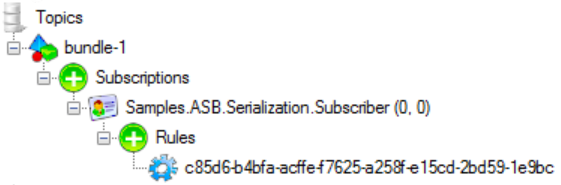
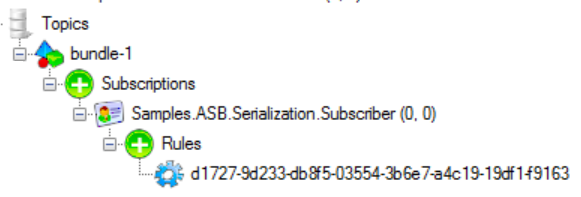
incorporated feedback

diff --git a/samples/azure/custom-sanitization/ASB_7/Subscriber/Program.cs b/samples/azure/custom-sanitization/ASB_7/Subscriber/Program.cs
@@ -1,12 +1,7 @@
 using System;
-using System.Linq;
-using System.Security.Cryptography;
-using System.Text;
-using System.Text.RegularExpressions;
 using System.Threading.Tasks;
 using NServiceBus;
 using NServiceBus.AzureServiceBus;
-using NServiceBus.AzureServiceBus.Addressing;
 using NServiceBus.Features;
 
 class Program
@@ -51,74 +46,3 @@ class Program
         }
     }
 }
-
-#region Sha1SanitiazationStrategy
-
-class Sha1Sanitization : ISanitizationStrategy
-{
-    public string Sanitize(string entityPathOrName, EntityType entityType)
-    {
-        // remove invalid characters
-        if (entityType == EntityType.Queue || entityType == EntityType.Topic)
-        {
-            var regexQueueAndTopicValidCharacters = new Regex(@"[^a-zA-Z0-9\-\._\/]");
-            var regexLeadingAndTrailingForwardSlashes = new Regex(@"^\/|\/$");
-
-            entityPathOrName = regexQueueAndTopicValidCharacters.Replace(entityPathOrName, string.Empty);
-            entityPathOrName = regexLeadingAndTrailingForwardSlashes.Replace(entityPathOrName, string.Empty);
-        }
-
-        if (entityType == EntityType.Subscription || entityType == EntityType.Rule || entityType == EntityType.EventHub)
-        {
-            var rgx = new Regex(@"[^a-zA-Z0-9\-\._]");
-            entityPathOrName = rgx.Replace(entityPathOrName, "");
-        }
-
-        int entityPathOrNameMaxLength = 0;
-
-        switch (entityType)
-        {
-            case EntityType.Queue:
-            case EntityType.Topic:
-                entityPathOrNameMaxLength = 260;
-                break;
-            case EntityType.Subscription:
-            case EntityType.Rule:
-                entityPathOrNameMaxLength = 50;
-                break;
-        }
-
-        // hash if too long
-        if (entityPathOrName.Length > entityPathOrNameMaxLength)
-        {
-            entityPathOrName = SHA1DeterministicNameBuilder.Build(entityPathOrName);
-        }
-
-        return entityPathOrName;
-    }
-}
-
-#endregion
-
-#region SHA1DeterministicNameBuilder
-
-static class SHA1DeterministicNameBuilder
-{
-    public static string Build(string input)
-    {
-        using (var provider = new SHA1CryptoServiceProvider())
-        {
-            var inputBytes = Encoding.Default.GetBytes(input);
-            var hashBytes = provider.ComputeHash(inputBytes);
-
-            var hashBuilder = new StringBuilder(string.Join("", hashBytes.Select(x => x.ToString("x2"))));
-            foreach (var delimeterIndex in new[] { 5, 11, 17, 23, 29, 35, 41 })
-            {
-                hashBuilder.Insert(delimeterIndex, "-");
-            }
-            return hashBuilder.ToString();
-        }
-    }
-}
-
-#endregion

diff --git a/samples/azure/custom-sanitization/ASB_7/Subscriber/Sha1Sanitization.cs b/samples/azure/custom-sanitization/ASB_7/Subscriber/Sha1Sanitization.cs
@@ -1,0 +1,51 @@
+using System.Text.RegularExpressions;
+using NServiceBus.AzureServiceBus;
+using NServiceBus.AzureServiceBus.Addressing;
+
+#region Sha1SanitiazationStrategy
+
+class Sha1Sanitization : ISanitizationStrategy
+{
+    public string Sanitize(string entityPathOrName, EntityType entityType)
+    {
+        // remove invalid characters
+        if (entityType == EntityType.Queue || entityType == EntityType.Topic)
+        {
+            var regexQueueAndTopicValidCharacters = new Regex(@"[^a-zA-Z0-9\-\._\/]");
+            var regexLeadingAndTrailingForwardSlashes = new Regex(@"^\/|\/$");
+
+            entityPathOrName = regexQueueAndTopicValidCharacters.Replace(entityPathOrName, string.Empty);
+            entityPathOrName = regexLeadingAndTrailingForwardSlashes.Replace(entityPathOrName, string.Empty);
+        }
+
+        if (entityType == EntityType.Subscription || entityType == EntityType.Rule || entityType == EntityType.EventHub)
+        {
+            var rgx = new Regex(@"[^a-zA-Z0-9\-\._]");
+            entityPathOrName = rgx.Replace(entityPathOrName, "");
+        }
+
+        int entityPathOrNameMaxLength = 0;
+
+        switch (entityType)
+        {
+            case EntityType.Queue:
+            case EntityType.Topic:
+                entityPathOrNameMaxLength = 260;
+                break;
+            case EntityType.Subscription:
+            case EntityType.Rule:
+                entityPathOrNameMaxLength = 50;
+                break;
+        }
+
+        // hash if too long
+        if (entityPathOrName.Length > entityPathOrNameMaxLength)
+        {
+            entityPathOrName = SHA1DeterministicNameBuilder.Build(entityPathOrName);
+        }
+
+        return entityPathOrName;
+    }
+}
+
+#endregion

diff --git a/samples/azure/custom-sanitization/ASB_7/Subscriber/SHA1DeterministicNameBuilder.cs b/samples/azure/custom-sanitization/ASB_7/Subscriber/SHA1DeterministicNameBuilder.cs
@@ -1,0 +1,35 @@
+using System.Linq;
+using System.Security.Cryptography;
+using System.Text;
+
+#region SHA1DeterministicNameBuilder
+
+static class SHA1DeterministicNameBuilder
+{
+    public static string Build(string input)
+    {
+        using (var provider = new SHA1CryptoServiceProvider())
+        {
+            var inputBytes = Encoding.Default.GetBytes(input);
+            var hashBytes = provider.ComputeHash(inputBytes);
+
+            var hashBuilder = new StringBuilder(string.Join("", hashBytes.Select(x => x.ToString("x2"))));
+            foreach (var delimeterIndex in new[]
+            {
+                5,
+                11,
+                17,
+                23,
+                29,
+                35,
+                41
+            })
+            {
+                hashBuilder.Insert(delimeterIndex, "-");
+            }
+            return hashBuilder.ToString();
+        }
+    }
+}
+
+#endregion

diff --git a/samples/azure/custom-sanitization/ASB_7/Publisher/Program.cs b/samples/azure/custom-sanitization/ASB_7/Publisher/Program.cs
@@ -1,9 +1,9 @@
 using System;
 using System.Threading.Tasks;
-using Shared.Messages.In.A.Deep.Nested.Namespace.Nested.Events;
 using NServiceBus;
 using NServiceBus.AzureServiceBus;
 using NServiceBus.Features;
+using Shared.Messages.In.A.Deep.Nested.Namespace.Nested.Events;
 
 class Program
 {
@@ -43,8 +43,8 @@ class Program
                 {
                     break;
                 }
-                await endpoint.Publish(new SuperDuperEvent { EventId = eventId });
-                Console.WriteLine("SuperDuperEvent sent. EventId: " + eventId);
+                await endpoint.Publish(new SomeEvent { EventId = eventId });
+                Console.WriteLine("SomeEvent sent. EventId: " + eventId);
             }
         }
         finally

diff --git a/samples/azure/custom-sanitization/ASB_7/Subscriber/SomeEventHandler.cs b/samples/azure/custom-sanitization/ASB_7/Subscriber/SomeEventHandler.cs
@@ -1,0 +1,15 @@
+using System.Threading.Tasks;
+using NServiceBus;
+using NServiceBus.Logging;
+using Shared.Messages.In.A.Deep.Nested.Namespace.Nested.Events;
+
+public class SomeEventHandler : IHandleMessages<SomeEvent>
+{
+    static ILog logger = LogManager.GetLogger<SomeEventHandler>();
+
+    public Task Handle(SomeEvent message, IMessageHandlerContext context)
+    {
+        logger.InfoFormat("Received SomeEvent. EventId: {0}", message.EventId);
+        return Task.FromResult(0);
+    }
+}

diff --git a/samples/azure/custom-sanitization/ASB_7/Shared/SomeEvent.cs b/samples/azure/custom-sanitization/ASB_7/Shared/SomeEvent.cs
@@ -4,9 +4,9 @@ namespace Shared.Messages.In.A.Deep.Nested.Namespace.Nested.Events
 {
     using NServiceBus;
 
-    #region SuperDuperEvent
+    #region SomeEvent
 
-    public class SuperDuperEvent : IEvent
+    public class SomeEvent : IEvent
     {
         public Guid EventId { get; set; }
     }

diff --git a/nservicebus/azure-service-bus/sanitization.md b/nservicebus/azure-service-bus/sanitization.md
@@ -23,15 +23,15 @@ When entity name does not follow the rules, an exception is raised by the broker
 
 | Entity Type  | Valid Characters | Path / Name Maximum Length |
 |--------------|------------------|----------------------------|
-| Queue        | Letters, numbers, periods (.), hyphens (-), underscores (_), and forward slashes (/). | 260 |
-| Topic        | Letters, numbers, periods (.), hyphens (-), underscores (_), and forward slashes (/). | 260 |
-| Subscription | Letters, numbers, periods (.), hyphens (-), and underscores (_). | 50  |
-| Rule         | Letters, numbers, periods (.), hyphens (-), and underscores (_). | 50  |
+| Queue        | Letters, numbers, periods (`.`), hyphens (`-`), underscores (`_`), and forward slashes (/). | 260 |
+| Topic        | Letters, numbers, periods (`.`), hyphens (`-`), underscores (`_`), and forward slashes (/). | 260 |
+| Subscription | Letters, numbers, periods (`.`), hyphens (`-`), and underscores (`_`). | 50  |
+| Rule         | Letters, numbers, periods (`.`), hyphens (`-`), and underscores (`_`). | 50  |
 
 
 ## Sanitization
 
-Sanitization is an operation on entity path or name to ensure the broker can operate on the entity, and no exception is thrown. Sanitization can be performed manually or by the Azure Service Bus transport.
+Sanitization is an operation that is performed on an entity path or name to ensure the broker can operate on the entity, and no exception is thrown. Sanitization can be performed manually or by the Azure Service Bus transport.
 
 To perform manual sanitization, inspect entity name for invalid characters and number of characters. For automated sanitization, the transport allows configuration outlined below.
 
@@ -41,7 +41,7 @@ To perform manual sanitization, inspect entity name for invalid characters and n
 
 ### Versions 6 and below
 
-All entities treated the same for allowed characters. Only letters, numbers, periods (.), hyphens (-), and underscores (_) were allowed. Maximum length was predefined by the transport.
+All entities treated the same for allowed characters. Only letters, numbers, periods (`.`), hyphens (`-`), and underscores (`_`) were allowed. Maximum length was predefined by the transport.
 
 In Version 6.4.x [Naming Conventions](/nservicebus/azure-service-bus/native-integration.md) were added to allow custom sanitization of queues, topics, and subscriptions.
 
@@ -58,14 +58,14 @@ Custom sanitization strategy definition:
 
 snippet: asb-custom-sanitization-strategy
 
-When using `EndpointOrientedTopology`, the transport should be configured to use `EndpointOrientedTopologySanitization` sanitization strategy for backward compatibility with endpoints version 6 and below.
+When using `EndpointOrientedTopology`, the transport should be configured to use `EndpointOrientedTopologySanitization` sanitization strategy for backward compatibility with endpoints versions 6 and below.
 
 snippet: asb-endpointorientedtopology-sanitization
 
 
 ## Future consideration prior to using sanitization
 
-When implementing a custom sanitization, consider factors such as readability and discover-ability. Things to consider:
+When implementing custom sanitization, consider factors such as readability and discover-ability. Things to consider:
 
  * Truncated long entity names could conflict. 
  * Hashed entity names could lead to difficult names to use during production troubleshooting or debugging.

diff --git a/samples/azure/custom-sanitization/sample.md b/samples/azure/custom-sanitization/sample.md
@@ -25,12 +25,12 @@ This sample has two endpoints
 * `Publisher`
 * `Subscriber`
 
-snippet: SuperDuperEvent
+snippet: SomeEvent
 
 
 ## Publisher
 
-`Publisher` publishes `SuperDuperEvent`.
+`Publisher` publishes `SomeEvent`.
 
 
 ## Subscriber
@@ -39,7 +39,7 @@ snippet: SuperDuperEvent
 
 `SuperDuperEvent` full name is `Shared.Messages.In.A.Deep.Nested.Namespace.Nested.Events.SuperDuperEvent`. That is 72 characters which exceed the maximum 50 characters limit for a rule name. An attempt to use such a long rule name will result in the following exception:
 
->Invalid Rule name \`Shared.Messages.In.A.Deep.Nested.Namespace.Nested.Events.SuperDuperEvent\` that cannot be used with Azure Service Bus. Rule name exceeds maximum allowed length or contains invalid characters. Check for invalid characters, shorten the name, or use \`Sanitization().UseStrategy&lt;ISanitizationStrategy&gt;()\` configuration extension.
+`Invalid Rule name 'Shared.Messages.In.A.Deep.Nested.Namespace.Nested.Events.SuperDuperEvent' that cannot be used with Azure Service Bus. Rule name exceeds maximum allowed length or contains invalid characters. Check for invalid characters, shorten the name, or use 'Sanitization().UseStrategy<ISanitizationStrategy>()' configuration extension.`
 
 
 ### Creating custom sanitization

diff --git a/nservicebus/upgrades/asb-6to7.md b/nservicebus/upgrades/asb-6to7.md
@@ -64,8 +64,8 @@ snippet:publisher_names_mapping_upgrade_guide
 
 ## Sanitization
 
-In version 6 sanitization was performed by default and the MD5 algorithm was used to truncate entity names. To maintain backward compatibility, `EndpointOrientedTopologySanitization` sanitization strategy should be registered with the transport as [per documentation](/nservicebus/azure-service-bus/sanitization.md#version-7-and-above).
+In version 6 and below sanitization was performed by default and the MD5 algorithm was used to truncate entity names. To maintain backward compatibility, [use `EndpointOrientedTopologySanitization` strategy](/nservicebus/azure-service-bus/sanitization.md#version-7-and-above).
 
 snippet: asb-endpointorientedtopology-sanitization
 
-In version 6.4.0 `NamingConventions` class was introduced to customize sanitization. The class is obsoleted. Instead, implement a custom sanitization strategy as per [documentation](/nservicebus/azure-service-bus/sanitization.md#version-7-and-above). 
+In version 6.4.0 `NamingConventions` class was introduced to customize sanitization. The class is obsoleted. Instead, implement a [custom sanitization strategy](/nservicebus/azure-service-bus/sanitization.md#version-7-and-above).

diff --git a/samples/azure/polymorphic-events-asb/sample.md b/samples/azure/polymorphic-events-asb/sample.md
@@ -94,6 +94,6 @@ snippet:PublisherOutput-from-sample
 
 snippet:SubscriberOutput-from-sample
 
-NOTE: From version 7, publisher names have to be configured via code for the subscribers.
+NOTE: From versions 7 and above, publisher names have to be configured via code for the subscribers.
 
 snippet: RegisterPublisherNames
